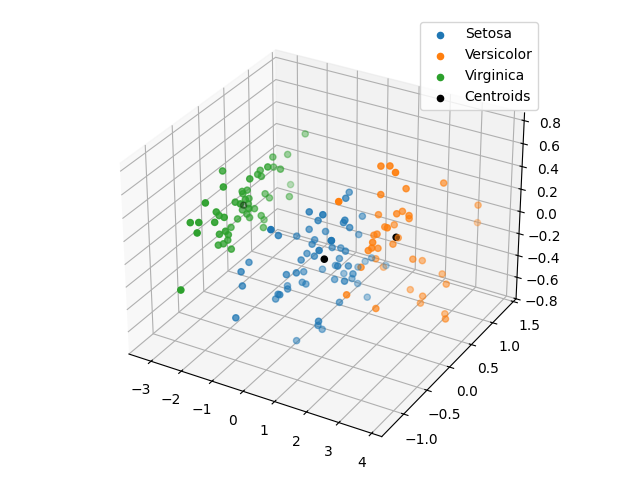
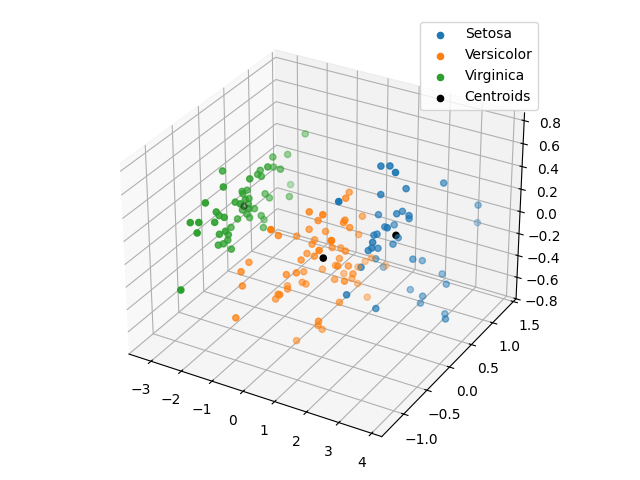
feat: create readme

diff --git a/README.md b/README.md
@@ -1,0 +1,129 @@
+# Agrupamento de Dados com Algoritmo Genético Híbrido (GA + K-Means)
+
+Experimento de **agrupamento não-supervisionado** utilizando um **Algoritmo Genético (AG)** como método de otimização global, acelerado pelo **K-Means** como operador de busca local. O objetivo é encontrar bons agrupamentos em conjuntos de dados clássicos, evoluindo centroides por meio de um AG e refinando-os periodicamente com o K-Means para escapar de mínimos locais de forma mais eficiente.
+
+## Datasets
+
+### Iris
+
+| Propriedade | Valor |
+|---|---|
+| Amostras | 150 |
+| Atributos | 4 (comprimento e largura de sépala e pétala, em cm) |
+| Classes | 3 (*Iris setosa*, *Iris versicolor*, *Iris virginica*) |
+| Balanceamento | 50 amostras por classe |
+
+### Wine
+
+| Propriedade | Valor |
+|---|---|
+| Amostras | 178 |
+| Atributos | 13 (álcool, ácido málico, cinzas, alcalinidade, magnésio, fenóis, flavonoides, etc.) |
+| Classes | 3 (0, 1 e 2) |
+| Balanceamento | Levemente desbalanceado (59, 71 e 48 amostras) |
+
+## Implementação
+
+### Representação do Indivíduo (Cromossomo)
+
+Cada indivíduo codifica $k$ centroides concatenados em um vetor de reais:
+
+$$\text{indivíduo} = [c_1^{(1)}, c_1^{(2)}, \ldots, c_1^{(d)},\; c_2^{(1)}, \ldots, c_k^{(d)}]$$
+
+onde $k$ é o número de grupos e $d$ é o número de atributos. A dimensão do espaço de busca é $n\_dim = k \times d$.
+
+O tamanho da população e o número máximo de iterações são derivados automaticamente:
+
+$$\text{size\_pop} = 3 \times n\_dim \qquad \text{max\_iter} = 10 \times n\_dim$$
+
+Os limites de cada gene correspondem ao mínimo e máximo de cada atributo no dataset.
+
+### Operadores Genéticos
+
+- **Seleção**: por torneio
+- **Crossover**: aritmético — dado $\alpha \in [0, 1]$ aleatório, os filhos são $\alpha \cdot p_1 + (1-\alpha) \cdot p_2$ e $\alpha \cdot p_2 + (1-\alpha) \cdot p_1$
+- **Mutação**: gaussiana com $\mu = 0$ e $\sigma = 0.1$, aplicada com probabilidade 0.01 por gene
+
+### Função de Aptidão
+
+A função objetivo minimizada é a soma das distâncias euclidianas de cada ponto ao seu centroide mais próximo:
+
+$$f(\mathbf{x}) = \sum_{i=1}^{n} \min_{k} \| x_i - c_k \|_2$$
+
+### K-Means como Acelerador de Busca Local
+
+Nas primeiras $\lfloor \text{max\_iter} / 10 \rfloor$ gerações, um indivíduo tem seus centroides refinados pelo K-Means:
+
+- Na **primeira geração**, o melhor indivíduo é refinado.
+- Nas **gerações seguintes** (até o limite), um indivíduo aleatório é refinado.
+
+O K-Means é inicializado com os centroides do indivíduo selecionado e executado até convergência. Se o fitness do resultado for melhor, o indivíduo é substituído. Esse mecanismo híbrido combina a exploração global do AG com a intensificação local do K-Means.
+
+## Estrutura do Projeto
+
+```
+main.py               # Script de execução via linha de comando
+requirements.txt      # Dependências do projeto
+clusters/             # Imagens dos clusters gerados (iris.png, wine.png)
+notebook/
+    clustering.ipynb  # Notebook com documentação e experimentos
+src/
+    dataset.py        # Wrapper para os datasets
+    genetic_algorithm.py  # Implementação do AG híbrido
+    runner.py         # Orquestração de múltiplas execuções
+```
+
+## Execução
+
+### Pré-requisitos
+
+```bash
+pip install -r requirements.txt
+```
+
+### Via script
+
+```bash
+python main.py
+```
+
+O script executa o AG **10 vezes** por dataset, salva os gráficos dos clusters em `clusters/` e imprime uma tabela com as métricas agregadas.
+
+### Via notebook
+
+Abra `notebook/clustering.ipynb` e execute as células sequencialmente.
+
+## Resultados
+
+O AG é executado 10 vezes por dataset. Ao final, são reportadas:
+
+- **Fitness Médio**: média do melhor fitness encontrado em cada execução
+- **Desvio Padrão**: variabilidade do fitness entre as execuções
+- **Melhor Fitness**: menor valor de fitness obtido em todas as execuções
+
+Os clusters da melhor execução são visualizados em 3D via PCA (necessário pois ambos os datasets têm mais de 3 atributos), com centroides marcados em preto.
+
+### Tabela de Resultados
+
+| Dataset | Fitness Médio | Desvio Padrão | Melhor Fitness |
+|---|---|---|---|
+| iris | 96.610533 | 0.035556 | 96.559781 |
+| wine | 16294.323664 | 0.219202 | 16293.844029 |
+
+### Iris
+
+![Clusters Iris](clusters/iris.png)
+
+### Wine
+
+![Clusters Wine](clusters/wine.png)
+
+## Dependências Principais
+
+| Biblioteca | Uso |
+|---|---|
+| `scikit-learn` | Datasets, K-Means e PCA |
+| `scikit-opt` | Base `RCGA` para o Algoritmo Genético |
+| `numpy` | Operações numéricas |
+| `matplotlib` | Visualização dos clusters |
+| `pandas` | Tabela de resultados |
